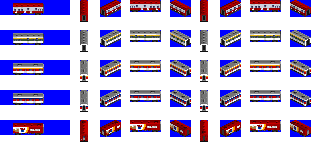
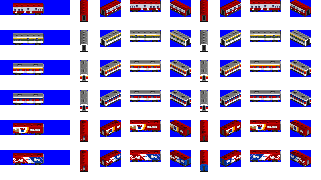
Add: Mail car 2024 livery Close #480

diff --git a/docs/download_page/japanese.html b/docs/download_page/japanese.html
@@ -750,7 +750,7 @@
         <td class="introduction">1950</td>
     </tr>
     <tr data-veh_id="MAIL_CAR">
-        <td class="refit"><div><img src="./_static/MAIL_CAR_1.png" alt="郵便車"><br /><img src="./_static/MAIL_CAR_2.png" alt="郵便車"><br /><img src="./_static/MAIL_CAR_3.png" alt="郵便車"><br /><img src="./_static/MAIL_CAR_4.png" alt="郵便車"><br /><img src="./_static/MAIL_CAR_5.png" alt="郵便車"></div></td>
+        <td class="refit"><div><img src="./_static/MAIL_CAR_1.png" alt="郵便車"><br /><img src="./_static/MAIL_CAR_2.png" alt="郵便車"><br /><img src="./_static/MAIL_CAR_3.png" alt="郵便車"><br /><img src="./_static/MAIL_CAR_4.png" alt="郵便車"><br /><img src="./_static/MAIL_CAR_5.png" alt="郵便車"><br /><img src="./_static/MAIL_CAR_6.png" alt="郵便車"></div></td>
         <td class="name">郵便車</td>
         <td class="speed"></td>
         <td class="speed_designed"></td>

diff --git a/docs/download_page/korean.html b/docs/download_page/korean.html
@@ -750,7 +750,7 @@
         <td class="introduction">1950</td>
     </tr>
     <tr data-veh_id="MAIL_CAR">
-        <td class="refit"><div><img src="./_static/MAIL_CAR_1.png" alt="우편차"><br /><img src="./_static/MAIL_CAR_2.png" alt="우편차"><br /><img src="./_static/MAIL_CAR_3.png" alt="우편차"><br /><img src="./_static/MAIL_CAR_4.png" alt="우편차"><br /><img src="./_static/MAIL_CAR_5.png" alt="우편차"></div></td>
+        <td class="refit"><div><img src="./_static/MAIL_CAR_1.png" alt="우편차"><br /><img src="./_static/MAIL_CAR_2.png" alt="우편차"><br /><img src="./_static/MAIL_CAR_3.png" alt="우편차"><br /><img src="./_static/MAIL_CAR_4.png" alt="우편차"><br /><img src="./_static/MAIL_CAR_5.png" alt="우편차"><br /><img src="./_static/MAIL_CAR_6.png" alt="우편차"></div></td>
         <td class="name">우편차</td>
         <td class="speed"></td>
         <td class="speed_designed"></td>

diff --git a/docs/download_page/english.html b/docs/download_page/english.html
@@ -750,7 +750,7 @@
         <td class="introduction">1950</td>
     </tr>
     <tr data-veh_id="MAIL_CAR">
-        <td class="refit"><div><img src="./_static/MAIL_CAR_1.png" alt="Mail car"><br /><img src="./_static/MAIL_CAR_2.png" alt="Mail car"><br /><img src="./_static/MAIL_CAR_3.png" alt="Mail car"><br /><img src="./_static/MAIL_CAR_4.png" alt="Mail car"><br /><img src="./_static/MAIL_CAR_5.png" alt="Mail car"></div></td>
+        <td class="refit"><div><img src="./_static/MAIL_CAR_1.png" alt="Mail car"><br /><img src="./_static/MAIL_CAR_2.png" alt="Mail car"><br /><img src="./_static/MAIL_CAR_3.png" alt="Mail car"><br /><img src="./_static/MAIL_CAR_4.png" alt="Mail car"><br /><img src="./_static/MAIL_CAR_5.png" alt="Mail car"><br /><img src="./_static/MAIL_CAR_6.png" alt="Mail car"></div></td>
         <td class="name">Mail car</td>
         <td class="speed"></td>
         <td class="speed_designed"></td>

diff --git a/docs/download_page/japanese.md b/docs/download_page/japanese.md
@@ -750,7 +750,7 @@
         <td class="introduction">1950</td>
     </tr>
     <tr data-veh_id="MAIL_CAR">
-        <td class="refit"><div><img src="./_static/MAIL_CAR_1.png" alt="郵便車"><br /><img src="./_static/MAIL_CAR_2.png" alt="郵便車"><br /><img src="./_static/MAIL_CAR_3.png" alt="郵便車"><br /><img src="./_static/MAIL_CAR_4.png" alt="郵便車"><br /><img src="./_static/MAIL_CAR_5.png" alt="郵便車"></div></td>
+        <td class="refit"><div><img src="./_static/MAIL_CAR_1.png" alt="郵便車"><br /><img src="./_static/MAIL_CAR_2.png" alt="郵便車"><br /><img src="./_static/MAIL_CAR_3.png" alt="郵便車"><br /><img src="./_static/MAIL_CAR_4.png" alt="郵便車"><br /><img src="./_static/MAIL_CAR_5.png" alt="郵便車"><br /><img src="./_static/MAIL_CAR_6.png" alt="郵便車"></div></td>
         <td class="name">郵便車</td>
         <td class="speed"></td>
         <td class="speed_designed"></td>

diff --git a/docs/download_page/korean.md b/docs/download_page/korean.md
@@ -750,7 +750,7 @@
         <td class="introduction">1950</td>
     </tr>
     <tr data-veh_id="MAIL_CAR">
-        <td class="refit"><div><img src="./_static/MAIL_CAR_1.png" alt="우편차"><br /><img src="./_static/MAIL_CAR_2.png" alt="우편차"><br /><img src="./_static/MAIL_CAR_3.png" alt="우편차"><br /><img src="./_static/MAIL_CAR_4.png" alt="우편차"><br /><img src="./_static/MAIL_CAR_5.png" alt="우편차"></div></td>
+        <td class="refit"><div><img src="./_static/MAIL_CAR_1.png" alt="우편차"><br /><img src="./_static/MAIL_CAR_2.png" alt="우편차"><br /><img src="./_static/MAIL_CAR_3.png" alt="우편차"><br /><img src="./_static/MAIL_CAR_4.png" alt="우편차"><br /><img src="./_static/MAIL_CAR_5.png" alt="우편차"><br /><img src="./_static/MAIL_CAR_6.png" alt="우편차"></div></td>
         <td class="name">우편차</td>
         <td class="speed"></td>
         <td class="speed_designed"></td>

diff --git a/docs/download_page/english.md b/docs/download_page/english.md
@@ -750,7 +750,7 @@
         <td class="introduction">1950</td>
     </tr>
     <tr data-veh_id="MAIL_CAR">
-        <td class="refit"><div><img src="./_static/MAIL_CAR_1.png" alt="Mail car"><br /><img src="./_static/MAIL_CAR_2.png" alt="Mail car"><br /><img src="./_static/MAIL_CAR_3.png" alt="Mail car"><br /><img src="./_static/MAIL_CAR_4.png" alt="Mail car"><br /><img src="./_static/MAIL_CAR_5.png" alt="Mail car"></div></td>
+        <td class="refit"><div><img src="./_static/MAIL_CAR_1.png" alt="Mail car"><br /><img src="./_static/MAIL_CAR_2.png" alt="Mail car"><br /><img src="./_static/MAIL_CAR_3.png" alt="Mail car"><br /><img src="./_static/MAIL_CAR_4.png" alt="Mail car"><br /><img src="./_static/MAIL_CAR_5.png" alt="Mail car"><br /><img src="./_static/MAIL_CAR_6.png" alt="Mail car"></div></td>
         <td class="name">Mail car</td>
         <td class="speed"></td>
         <td class="speed_designed"></td>

diff --git a/docs/changelog.md b/docs/changelog.md
@@ -1,5 +1,6 @@
 2.8.2+
 -----
+ * 추가: 우편차 생활물류 트레인 도색 [#480]
  * 수정: 경춘선 2024년 2차 도입분, 경의중앙선 2024년 도입분 도색 오류 [#481]
  * 수정: 경전철 승객 공통 차량이 경전철 차량에 적용되지 않던 현상
 
